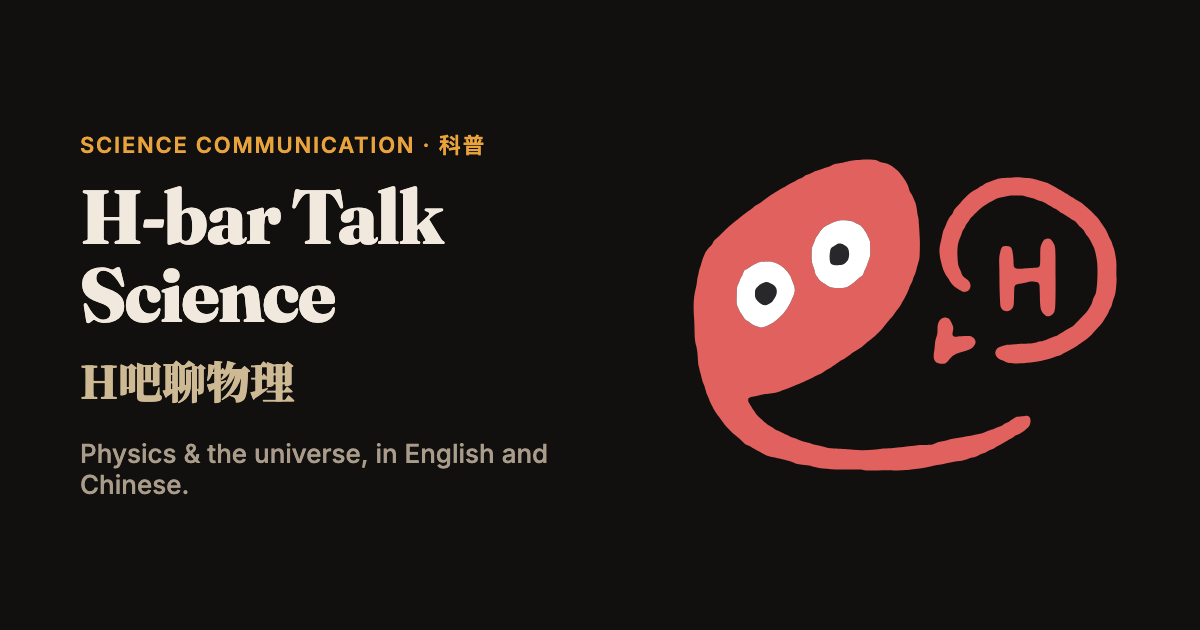
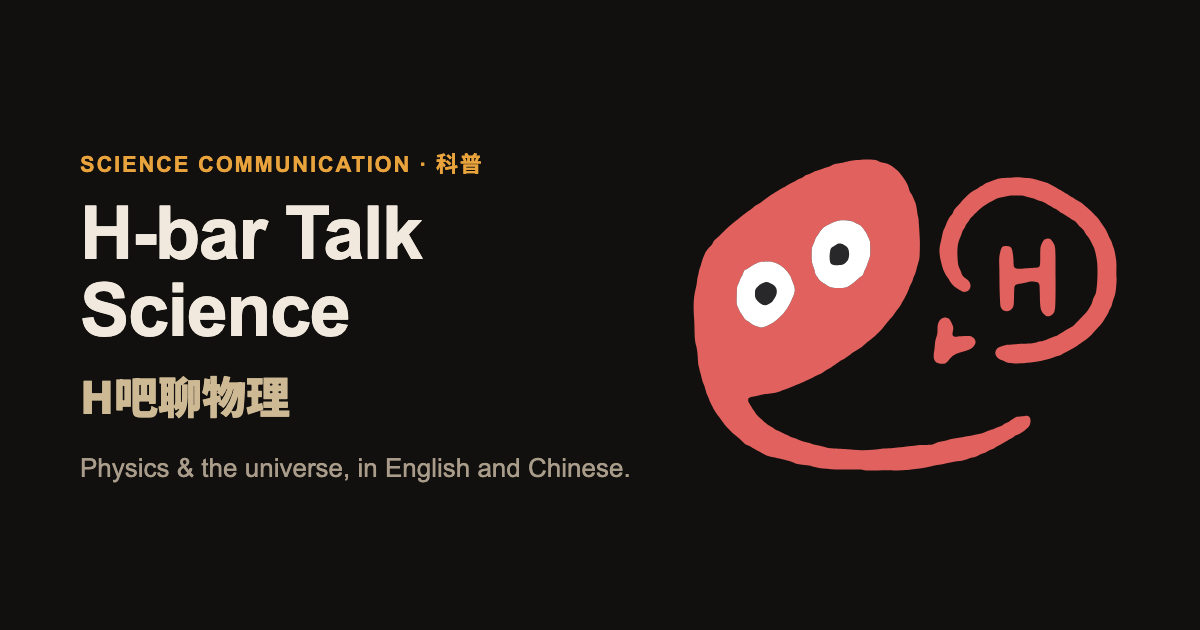
Switch fonts: Arial for English, Noto Sans (黑体) for Chinese

diff --git a/assets/style.css b/assets/style.css
@@ -8,11 +8,11 @@
   --amber-soft: rgba(232, 163, 61, 0.14);
   --radius: 14px;
   --max: 1120px;
-  --sans: "Inter", "Noto Sans TC", system-ui, sans-serif;
-  --serif: "Fraunces", "Noto Serif TC", Georgia, serif;
+  /* English in Arial (Arimo is its metric-compatible free twin, served by Google Fonts); Chinese in 黑体 (Noto Sans). */
+  --font: "Arial", "Arimo", "Noto Sans TC", system-ui, sans-serif;
 }
-html[lang="zh-Hant"] { --sans: "Inter", "Noto Sans TC", system-ui, sans-serif; --serif: "Fraunces", "Noto Serif TC", serif; }
-html[lang="zh-Hans"] { --sans: "Inter", "Noto Sans SC", system-ui, sans-serif; --serif: "Fraunces", "Noto Serif SC", serif; }
+html[lang="zh-Hant"] { --font: "Arial", "Arimo", "Noto Sans TC", system-ui, sans-serif; }
+html[lang="zh-Hans"] { --font: "Arial", "Arimo", "Noto Sans SC", system-ui, sans-serif; }
 
 /* Show only the text that matches the current language (see assets/lang.js). */
 html[lang="en"] [data-l]:not([data-l="en"]),
@@ -25,7 +25,7 @@ body {
   margin: 0;
   background: var(--bg);
   color: var(--text);
-  font: 17px/1.65 var(--sans);
+  font: 17px/1.65 var(--font);
   -webkit-font-smoothing: antialiased;
 }
 a { color: var(--amber); text-decoration: none; }
@@ -43,10 +43,10 @@ img { max-width: 100%; display: block; }
   backdrop-filter: blur(10px);
   border-bottom: 1px solid var(--line);
 }
-.brand { display: flex; align-items: center; gap: 10px; color: var(--text); font: 700 1.15rem var(--serif); }
+.brand { display: flex; align-items: center; gap: 10px; color: var(--text); font: 700 1.15rem var(--font); }
 .brand:hover { text-decoration: none; }
 .brand img { border-radius: 50%; }
-.brand small, .footer-brand small { color: var(--muted); font: 500 0.85rem var(--sans); margin-left: 4px; }
+.brand small, .footer-brand small { color: var(--muted); font: 500 0.85rem var(--font); margin-left: 4px; }
 .menu { display: flex; align-items: center; gap: 24px; }
 .menu nav { display: flex; align-items: center; gap: 20px; font-size: 0.95rem; }
 .menu nav a { color: var(--muted); }
@@ -55,7 +55,7 @@ img { max-width: 100%; display: block; }
 .menu-toggle { display: none; }
 .lang-switch { display: flex; border: 1px solid var(--line); border-radius: 999px; padding: 2px; }
 .lang-switch button {
-  font: 500 0.85rem var(--sans); color: var(--muted);
+  font: 500 0.85rem var(--font); color: var(--muted);
   background: none; border: 0; border-radius: 999px;
   padding: 3px 10px; cursor: pointer;
 }
@@ -71,8 +71,8 @@ img { max-width: 100%; display: block; }
 .eyebrow { color: var(--amber); font-weight: 600; letter-spacing: 0.08em; text-transform: uppercase; font-size: 0.85rem; margin: 0 0 16px; }
 html[lang^="zh"] .eyebrow { text-transform: none; letter-spacing: 0.04em; }
 .hero h1, .page-hero h1 {
-  font: 700 clamp(2.6rem, 7vw, 4.6rem)/1.05 var(--serif);
-  margin: 0 0 24px; letter-spacing: -0.02em; max-width: 18ch; text-wrap: balance;
+  font: 700 clamp(2.4rem, 6vw, 4rem)/1.08 var(--font);
+  margin: 0 0 24px; letter-spacing: -0.02em; max-width: 22ch; text-wrap: balance;
 }
 .lede { color: var(--muted); font-size: 1.2rem; max-width: 44ch; margin: 0 0 36px; }
 .cta { display: flex; flex-wrap: wrap; gap: 12px; }
@@ -85,7 +85,7 @@ html[lang^="zh"] .eyebrow { text-transform: none; letter-spacing: 0.04em; }
 
 .btn {
   display: inline-block; cursor: pointer;
-  font: 600 0.98rem var(--sans); color: var(--text);
+  font: 600 0.98rem var(--font); color: var(--text);
   padding: 12px 22px; border-radius: 999px;
   border: 1px solid var(--line); background: var(--bg-raised);
   transition: border-color .15s, transform .15s;
@@ -96,12 +96,12 @@ html[lang^="zh"] .eyebrow { text-transform: none; letter-spacing: 0.04em; }
 
 /* Sections */
 .section { max-width: var(--max); margin: 0 auto; padding: 52px 16px; border-top: 1px solid var(--line); }
-.section h2 { font: 700 clamp(1.8rem, 4vw, 2.6rem)/1.15 var(--serif); margin: 0 0 24px; }
+.section h2 { font: 700 clamp(1.8rem, 4vw, 2.6rem)/1.15 var(--font); margin: 0 0 24px; }
 .section-head { display: flex; flex-wrap: wrap; align-items: baseline; justify-content: space-between; gap: 8px 16px; margin-bottom: 24px; }
 .section-head h2 { margin: 0; }
 .filters { display: flex; flex-wrap: wrap; gap: 8px; }
 .chip {
-  font: 500 0.9rem var(--sans); color: var(--muted);
+  font: 500 0.9rem var(--font); color: var(--muted);
   background: none; border: 1px solid var(--line); border-radius: 999px;
   padding: 6px 14px; cursor: pointer;
 }
@@ -118,7 +118,7 @@ html[lang^="zh"] .eyebrow { text-transform: none; letter-spacing: 0.04em; }
 }
 .banner blockquote {
   margin: 0 0 20px;
-  font: 700 clamp(1.8rem, 4.4vw, 3rem)/1.2 var(--serif);
+  font: 700 clamp(1.8rem, 4.4vw, 3rem)/1.2 var(--font);
   letter-spacing: -0.01em; text-wrap: balance;
 }
 .banner .accent { color: #7a3f00; }
@@ -136,7 +136,7 @@ html[lang^="zh"] .eyebrow { text-transform: none; letter-spacing: 0.04em; }
   font-size: 2rem; color: #fff; background: rgba(0,0,0,.35); opacity: 0; transition: opacity .2s;
 }
 .card:hover .thumb::after, .card:focus-visible .thumb::after { opacity: 1; }
-.card h3 { font: 600 1.02rem/1.4 var(--sans); margin: 14px 0 6px; }
+.card h3 { font: 600 1.02rem/1.4 var(--font); margin: 14px 0 6px; }
 .meta { display: flex; gap: 10px; align-items: center; color: var(--muted); font-size: 0.85rem; }
 .tag { border: 1px solid var(--line); border-radius: 6px; padding: 0 6px; font-size: 0.75rem; }
 .more-wrap { text-align: center; margin-top: 40px; }
@@ -158,7 +158,7 @@ html[lang^="zh"] .eyebrow { text-transform: none; letter-spacing: 0.04em; }
 .pillars { background: var(--bg-raised); border: 1px solid var(--line); border-radius: 8px; }
 .pillar { padding: 26px 32px; }
 .pillar + .pillar { border-top: 1px solid var(--line); }
-.pillar h3 { font: 800 clamp(1.4rem, 3vw, 1.7rem)/1.25 var(--serif); margin: 0 0 8px; color: var(--text); }
+.pillar h3 { font: 800 clamp(1.4rem, 3vw, 1.7rem)/1.25 var(--font); margin: 0 0 8px; color: var(--text); }
 html[lang^="zh"] .pillar h3 { font-weight: 900; }
 .pillar p { color: var(--muted); margin: 0; }
 .pillar strong { color: var(--text); font-weight: 600; }
@@ -172,15 +172,15 @@ html[lang^="zh"] .pillar h3 { font-weight: 900; }
 .portrait {
   aspect-ratio: 1; border-radius: var(--radius); overflow: hidden;
   display: grid; place-items: center;
-  background: var(--amber-soft); color: var(--amber); font: 700 3rem var(--serif);
+  background: var(--amber-soft); color: var(--amber); font: 700 3rem var(--font);
 }
 .portrait img { width: 100%; height: 100%; object-fit: cover; object-position: 50% 30%; }
-.profile h3 { font: 700 1.9rem/1.2 var(--serif); margin: 0 0 4px; }
-.profile h3 .cn { color: var(--muted); font: 400 1.1rem var(--sans); margin-left: 8px; }
+.profile h3 { font: 700 1.9rem/1.2 var(--font); margin: 0 0 4px; }
+.profile h3 .cn { color: var(--muted); font: 400 1.1rem var(--font); margin-left: 8px; }
 .role { color: var(--amber); font-weight: 600; margin: 0 0 20px; }
 .motto {
   margin: 0 0 24px; padding-left: 16px; border-left: 3px solid var(--amber);
-  font: 500 1.2rem/1.5 var(--serif); font-style: italic;
+  font: 500 1.2rem/1.5 var(--font); font-style: italic;
 }
 html[lang^="zh"] .motto { font-style: normal; }
 .cv { list-style: none; margin: 8px 0 0; padding: 0; }
@@ -189,7 +189,7 @@ html[lang^="zh"] .motto { font-style: normal; }
 .cv strong { display: block; color: var(--text); font-weight: 600; }
 .cv span { color: var(--muted); font-size: 0.95rem; }
 .cv em { display: block; color: var(--muted); font-size: 0.92rem; }
-.cv-title { font: 600 0.85rem var(--sans); letter-spacing: 0.06em; text-transform: uppercase; color: var(--muted); margin: 0; }
+.cv-title { font: 600 0.85rem var(--font); letter-spacing: 0.06em; text-transform: uppercase; color: var(--muted); margin: 0; }
 html[lang^="zh"] .cv-title { text-transform: none; letter-spacing: 0.04em; }
 
 /* Contact */
@@ -199,7 +199,7 @@ html[lang^="zh"] .cv-title { text-transform: none; letter-spacing: 0.04em; }
 .contact-form .optional { color: var(--muted); font-weight: 400; }
 .contact-form input, .contact-form textarea {
   width: 100%; padding: 11px 14px;
-  font: 1rem var(--sans); color: var(--text);
+  font: 1rem var(--font); color: var(--text);
   background: var(--bg); border: 1px solid var(--line); border-radius: 10px;
   transition: border-color .15s;
 }
@@ -212,7 +212,7 @@ html[lang^="zh"] .cv-title { text-transform: none; letter-spacing: 0.04em; }
   margin: 0 0 20px; padding: 12px 16px; border-radius: 10px;
   background: var(--amber-soft); color: var(--text) !important; font-weight: 600;
 }
-.contact-aside h2 { font: 700 1.5rem/1.3 var(--serif); margin: 4px 0 12px; }
+.contact-aside h2 { font: 700 1.5rem/1.3 var(--font); margin: 4px 0 12px; }
 .contact-aside p { color: var(--muted); margin: 0 0 12px; }
 .contact-email { font-size: 1.15rem; font-weight: 600; word-break: break-all; }
 
@@ -223,7 +223,7 @@ html[lang^="zh"] .cv-title { text-transform: none; letter-spacing: 0.04em; }
   background: radial-gradient(120% 140% at 100% 0%, rgba(232,163,61,.22), transparent 55%), var(--bg-raised);
   border: 1px solid var(--line);
 }
-.cta-band h2 { font: 700 clamp(1.7rem, 4vw, 2.4rem)/1.2 var(--serif); margin: 0 0 12px; }
+.cta-band h2 { font: 700 clamp(1.7rem, 4vw, 2.4rem)/1.2 var(--font); margin: 0 0 12px; }
 .cta-band p { color: var(--muted); margin: 0 0 28px; max-width: 52ch; }
 
 /* Footer */
@@ -234,7 +234,7 @@ html[lang^="zh"] .cv-title { text-transform: none; letter-spacing: 0.04em; }
   color: var(--muted); font-size: 0.9rem;
 }
 .footer p { margin: 0; }
-.footer-brand { color: var(--text); font: 700 1.1rem var(--serif); margin-bottom: 4px !important; }
+.footer-brand { color: var(--text); font: 700 1.1rem var(--font); margin-bottom: 4px !important; }
 .footer nav { display: flex; flex-wrap: wrap; gap: 8px 20px; align-content: start; }
 .footer nav a { color: var(--muted); }
 .footer nav a:hover { color: var(--text); }

diff --git a/contact.html b/contact.html
@@ -26,7 +26,7 @@
   <link rel="apple-touch-icon" href="assets/logo.jpg">
   <link rel="preconnect" href="https://fonts.googleapis.com">
   <link rel="preconnect" href="https://fonts.gstatic.com" crossorigin>
-  <link href="https://fonts.googleapis.com/css2?family=Fraunces:opsz,wght@9..144,500;9..144,700;9..144,800&family=Inter:wght@400;500;600&family=Noto+Sans+SC:wght@400;500;700&family=Noto+Sans+TC:wght@400;500;700&family=Noto+Serif+SC:wght@700;900&family=Noto+Serif+TC:wght@700;900&display=swap" rel="stylesheet">
+  <link href="https://fonts.googleapis.com/css2?family=Arimo:ital,wght@0,400;0,700;1,400;1,700&family=Noto+Sans+SC:wght@400;500;700;900&family=Noto+Sans+TC:wght@400;500;700;900&display=swap" rel="stylesheet">
   <link rel="stylesheet" href="assets/style.css">
   <script src="assets/lang.js"></script>
 </head>

diff --git a/videos.html b/videos.html
@@ -26,7 +26,7 @@
   <link rel="apple-touch-icon" href="assets/logo.jpg">
   <link rel="preconnect" href="https://fonts.googleapis.com">
   <link rel="preconnect" href="https://fonts.gstatic.com" crossorigin>
-  <link href="https://fonts.googleapis.com/css2?family=Fraunces:opsz,wght@9..144,500;9..144,700;9..144,800&family=Inter:wght@400;500;600&family=Noto+Sans+SC:wght@400;500;700&family=Noto+Sans+TC:wght@400;500;700&family=Noto+Serif+SC:wght@700;900&family=Noto+Serif+TC:wght@700;900&display=swap" rel="stylesheet">
+  <link href="https://fonts.googleapis.com/css2?family=Arimo:ital,wght@0,400;0,700;1,400;1,700&family=Noto+Sans+SC:wght@400;500;700;900&family=Noto+Sans+TC:wght@400;500;700;900&display=swap" rel="stylesheet">
   <link rel="stylesheet" href="assets/style.css">
   <script src="assets/lang.js"></script>
 </head>

diff --git a/about.html b/about.html
@@ -116,7 +116,7 @@
   </script>
   <link rel="preconnect" href="https://fonts.googleapis.com">
   <link rel="preconnect" href="https://fonts.gstatic.com" crossorigin>
-  <link href="https://fonts.googleapis.com/css2?family=Fraunces:opsz,wght@9..144,500;9..144,700;9..144,800&family=Inter:wght@400;500;600&family=Noto+Sans+SC:wght@400;500;700&family=Noto+Sans+TC:wght@400;500;700&family=Noto+Serif+SC:wght@700;900&family=Noto+Serif+TC:wght@700;900&display=swap" rel="stylesheet">
+  <link href="https://fonts.googleapis.com/css2?family=Arimo:ital,wght@0,400;0,700;1,400;1,700&family=Noto+Sans+SC:wght@400;500;700;900&family=Noto+Sans+TC:wght@400;500;700;900&display=swap" rel="stylesheet">
   <link rel="stylesheet" href="assets/style.css">
   <script src="assets/lang.js"></script>
 </head>

diff --git a/index.html b/index.html
@@ -84,7 +84,7 @@
   </script>
   <link rel="preconnect" href="https://fonts.googleapis.com">
   <link rel="preconnect" href="https://fonts.gstatic.com" crossorigin>
-  <link href="https://fonts.googleapis.com/css2?family=Fraunces:opsz,wght@9..144,500;9..144,700;9..144,800&family=Inter:wght@400;500;600&family=Noto+Sans+SC:wght@400;500;700&family=Noto+Sans+TC:wght@400;500;700&family=Noto+Serif+SC:wght@700;900&family=Noto+Serif+TC:wght@700;900&display=swap" rel="stylesheet">
+  <link href="https://fonts.googleapis.com/css2?family=Arimo:ital,wght@0,400;0,700;1,400;1,700&family=Noto+Sans+SC:wght@400;500;700;900&family=Noto+Sans+TC:wght@400;500;700;900&display=swap" rel="stylesheet">
   <link rel="stylesheet" href="assets/style.css">
   <script src="assets/lang.js"></script>
 </head>
